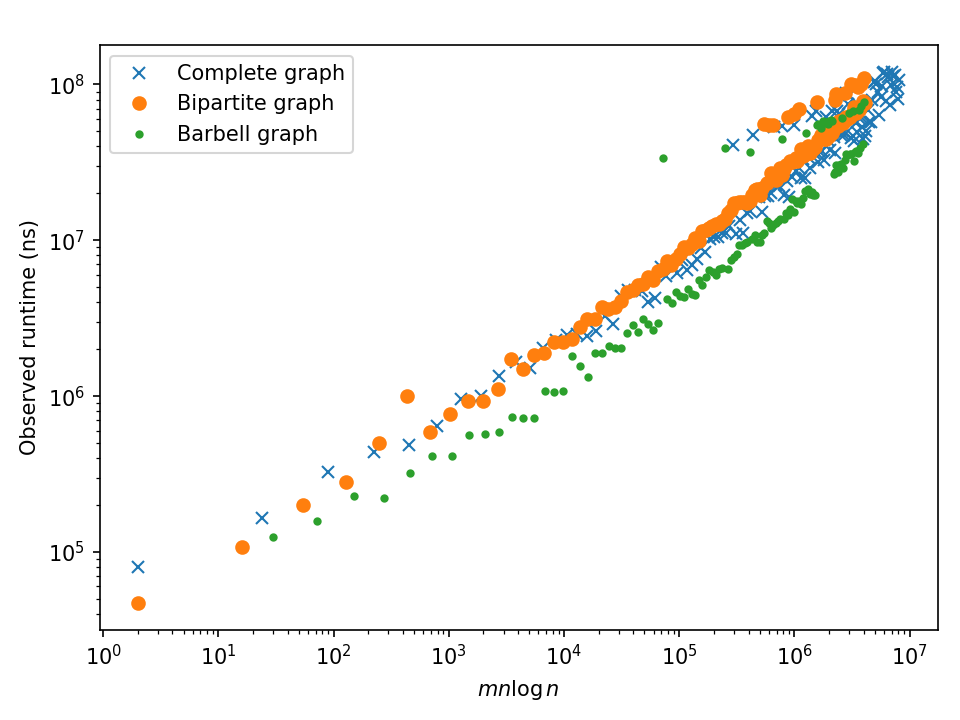
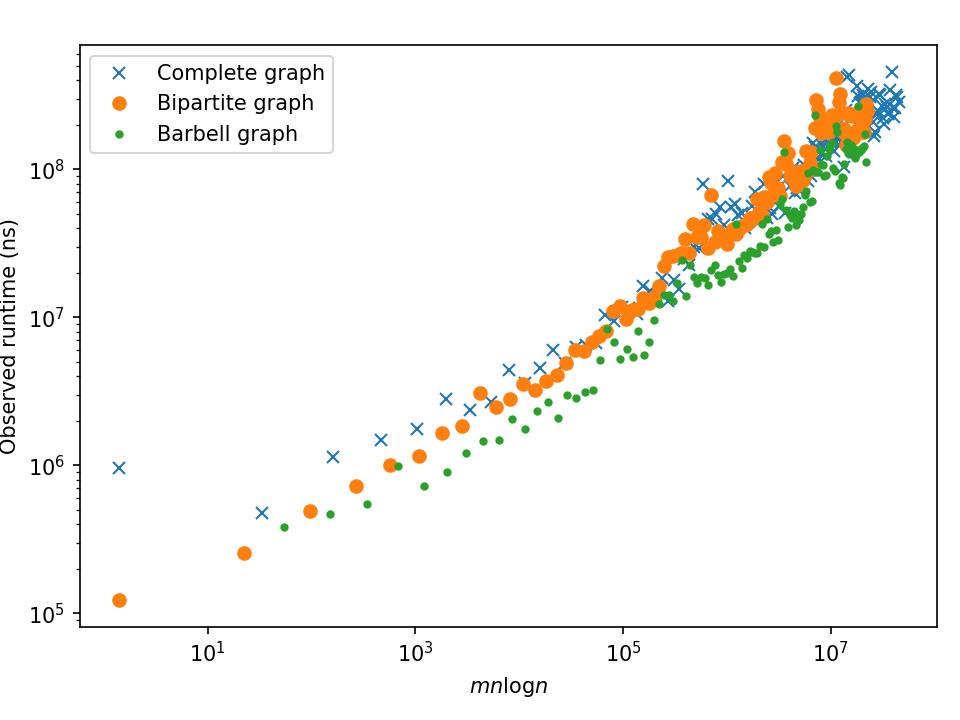
More comparison plots

diff --git a/random_comparisons.py b/random_comparisons.py
@@ -1,0 +1,80 @@
+import networkx as nx
+import numpy as np
+import matplotlib.pyplot as plt
+import graph_classes
+import time
+import Alg_FF, Alg_EK, Alg_Dinic, Alg_Dinic_LCT
+
+alg_names = ["FF", "EK", "Dinic", "Dinic_LCT"]
+runtimes = ["mnU", "m^2 n", "mn^2", "mn\\log n"]
+Algs = [Alg_FF, Alg_EK, Alg_Dinic, Alg_Dinic_LCT]
+
+def get_theoretical(alg_name, m, n, U):
+    if alg_name == "FF":
+        return m * n * U
+    elif alg_name == "EK":
+        return m**2 * n
+    elif alg_name == "Dinic":
+        return m * n**2
+    elif alg_name == "Dinic_LCT":
+        return m * n * np.log(n)
+    else:
+        raise NotImplementedError
+
+for i, Alg in enumerate(Algs):
+    random_0_2_vals = []
+    random_0_4_vals = []
+    random_0_6_vals = []
+    random_0_8_vals = []
+    for n in np.arange(2, 256, 2):
+        U = 1
+        G, s, t = graph_classes.random_graph(n, p=0.2)
+        m = len(G.edges)
+        theoretical = get_theoretical(alg_names[i], m, n, U)
+        nx.set_edge_attributes(G, 1, name="capacity")
+        start = time.time_ns()
+        Alg.max_flow(G, s, t)
+        end = time.time_ns()
+        random_0_2_vals.append((theoretical, end - start))
+        G, s, t = graph_classes.random_graph(n, p=0.4)
+        m = len(G.edges)
+        theoretical = get_theoretical(alg_names[i], m, n, U)
+        nx.set_edge_attributes(G, 1, name="capacity")
+        start = time.time_ns()
+        Alg.max_flow(G, s, t)
+        end = time.time_ns()
+        random_0_4_vals.append((theoretical, end - start))
+        G, s, t = graph_classes.random_graph(n, p=0.6)
+        m = len(G.edges)
+        theoretical = get_theoretical(alg_names[i], m, n, U)
+        nx.set_edge_attributes(G, 1, name="capacity")
+        start = time.time_ns()
+        Alg.max_flow(G, s, t)
+        end = time.time_ns()
+        random_0_6_vals.append((theoretical, end - start))
+        G, s, t = graph_classes.random_graph(n, p=0.8)
+        m = len(G.edges)
+        theoretical = get_theoretical(alg_names[i], m, n, U)
+        nx.set_edge_attributes(G, 1, name="capacity")
+        start = time.time_ns()
+        Alg.max_flow(G, s, t)
+        end = time.time_ns()
+        random_0_8_vals.append((theoretical, end - start))
+    plt.figure()
+    x, y = zip(*random_0_2_vals)
+    plt.plot(x, y, "x", label="Random graph, p = 0.2")
+    x, y = zip(*random_0_4_vals)
+    plt.plot(x, y, "o", label="Random graph, p = 0.4")
+    x, y = zip(*random_0_6_vals)
+    plt.plot(x, y, ".", label="Random graph, p = 0.6")
+    x, y = zip(*random_0_8_vals)
+    plt.plot(x, y, ".", label="Random graph, p = 0.8")
+    x_max = plt.xlim()
+    plt.xlabel(f"${runtimes[i]}$")
+    plt.ylabel("Observed runtime (ns)")
+    plt.legend()
+    plt.tight_layout()
+    plt.semilogx()
+    plt.semilogy()
+    plt.savefig(f"{alg_names[i]}_random_comparison.png", dpi=150)
+    plt.close()

diff --git a/unit_capacity_comparisons.py b/unit_capacity_comparisons.py
@@ -9,17 +9,27 @@ alg_names = ["FF", "EK", "Dinic", "Dinic_LCT"]
 runtimes = ["mnU", "m^2 n", "mn^2", "mn\\log n"]
 Algs = [Alg_FF, Alg_EK, Alg_Dinic, Alg_Dinic_LCT]
 
+def get_theoretical(alg_name, m, n, U):
+    if alg_name == "FF":
+        return m * n * U
+    elif alg_name == "EK":
+        return m**2 * n
+    elif alg_name == "Dinic":
+        return m * n**2
+    elif alg_name == "Dinic_LCT":
+        return m * n * np.log(n)
+    else:
+        raise NotImplementedError
+
 for i, Alg in enumerate(Algs):
     complete_vals = []
     bipartite_vals = []
     barbell_vals = []
     for n in np.arange(2, 256, 2):
         U = 1
-        #if alg_names[i] == "FF" and n >= 16: #FF takes forever for n >= 16 for some reason
-            #break
         G, s, t = graph_classes.complete_graph(n)
         m = len(G.edges)
-        theoretical = m * n * U
+        theoretical = get_theoretical(alg_names[i], m, n, U)
         nx.set_edge_attributes(G, 1, name="capacity")
         start = time.time_ns()
         Alg.max_flow(G, s, t)
@@ -27,7 +37,7 @@ for i, Alg in enumerate(Algs):
         complete_vals.append((theoretical, end - start))
         G, s, t = graph_classes.bipartite_graph(n)
         m = len(G.edges)
-        theoretical = m * n * U
+        theoretical = get_theoretical(alg_names[i], m, n, U)
         nx.set_edge_attributes(G, 1, name="capacity")
         start = time.time_ns()
         Alg.max_flow(G, s, t)
@@ -36,12 +46,11 @@ for i, Alg in enumerate(Algs):
         if n >= 5:
             G, s, t = graph_classes.barbell_graph(n)
             m = len(G.edges)
-            theoretical = m * n * U
+            theoretical = get_theoretical(alg_names[i], m, n, U)
             nx.set_edge_attributes(G, 1, name="capacity")
             start = time.time_ns()
             Alg.max_flow(G, s, t)
             end = time.time_ns()
-            theoretical = m * n * U
             barbell_vals.append((theoretical, end - start))
     plt.figure()
     x, y = zip(*complete_vals)
@@ -51,7 +60,6 @@ for i, Alg in enumerate(Algs):
     x, y = zip(*barbell_vals)
     plt.plot(x, y, ".", label="Barbell graph")
     x_max = plt.xlim()
-    # plt.plot(np.linspace(x_max, 100), np.linspace(x_max, 100), "--")
     plt.xlabel(f"${runtimes[i]}$")
     plt.ylabel("Observed runtime (ns)")
     plt.legend()

diff --git a/alg_comparison_complete.py b/alg_comparison_complete.py
@@ -8,12 +8,12 @@ import Alg_FF, Alg_EK, Alg_Dinic, Alg_Dinic_LCT
 
 '''comparison between algorithms on complete graphs with unit capacity'''
 
-alg_names = ["FF", "EK", "Dinic"]#, "Dinic_LCT"]
-Algs = [Alg_FF, Alg_EK, Alg_Dinic]#, Alg_Dinic_LCT]
+alg_names = ["FF", "EK", "Dinic", "Dinic_LCT"]
+Algs = [Alg_FF, Alg_EK, Alg_Dinic, Alg_Dinic_LCT]
 
 times = {a: [] for a in alg_names}
 
-for n in np.arange(2, 16, 2):
+for n in np.arange(2, 256, 2):
     U = 1
     G, s, t = graph_classes.complete_graph(n)
     nx.set_edge_attributes(G, 1, name="capacity")
@@ -24,7 +24,7 @@ for n in np.arange(2, 16, 2):
         times[alg_names[i]].append(end - start)
 plt.figure()
 for a in alg_names:
-    plt.plot(np.arange(2, 16, 2), times[a], label=a)
+    plt.plot(np.arange(2, 256, 2), times[a], label=a)
 plt.xlabel("$n$")
 plt.ylabel("Observed runtime (ns)")
 plt.legend()
